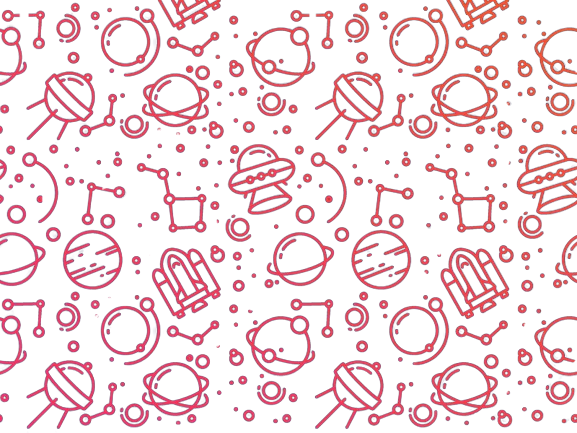
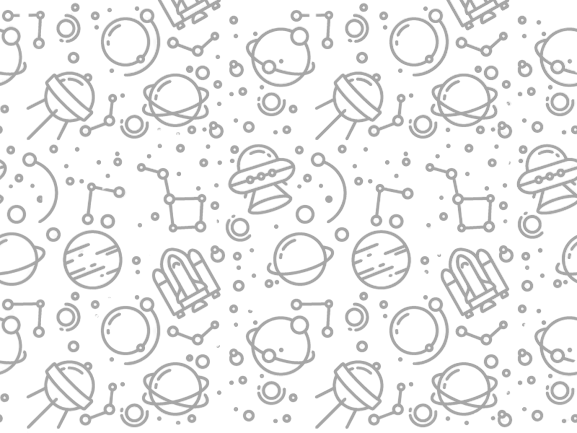
new image

diff --git a/Days Before Rodeo Lyric Page.html b/Days Before Rodeo Lyric Page.html
@@ -11,6 +11,8 @@
 
     </head>
 
+<main style="background-image:url('images/Space.png'); background-repeat; ">
+
     <div id="ft27872"><p>
             <br><h1><b>Days Before Rodeo Tracklist</h1></b>
             <br>
@@ -1100,4 +1102,6 @@ background: rgb(27, 160, 181);
         <div style="height:100px;"></div>
 
     </body>
+
+</main>
 </html>
